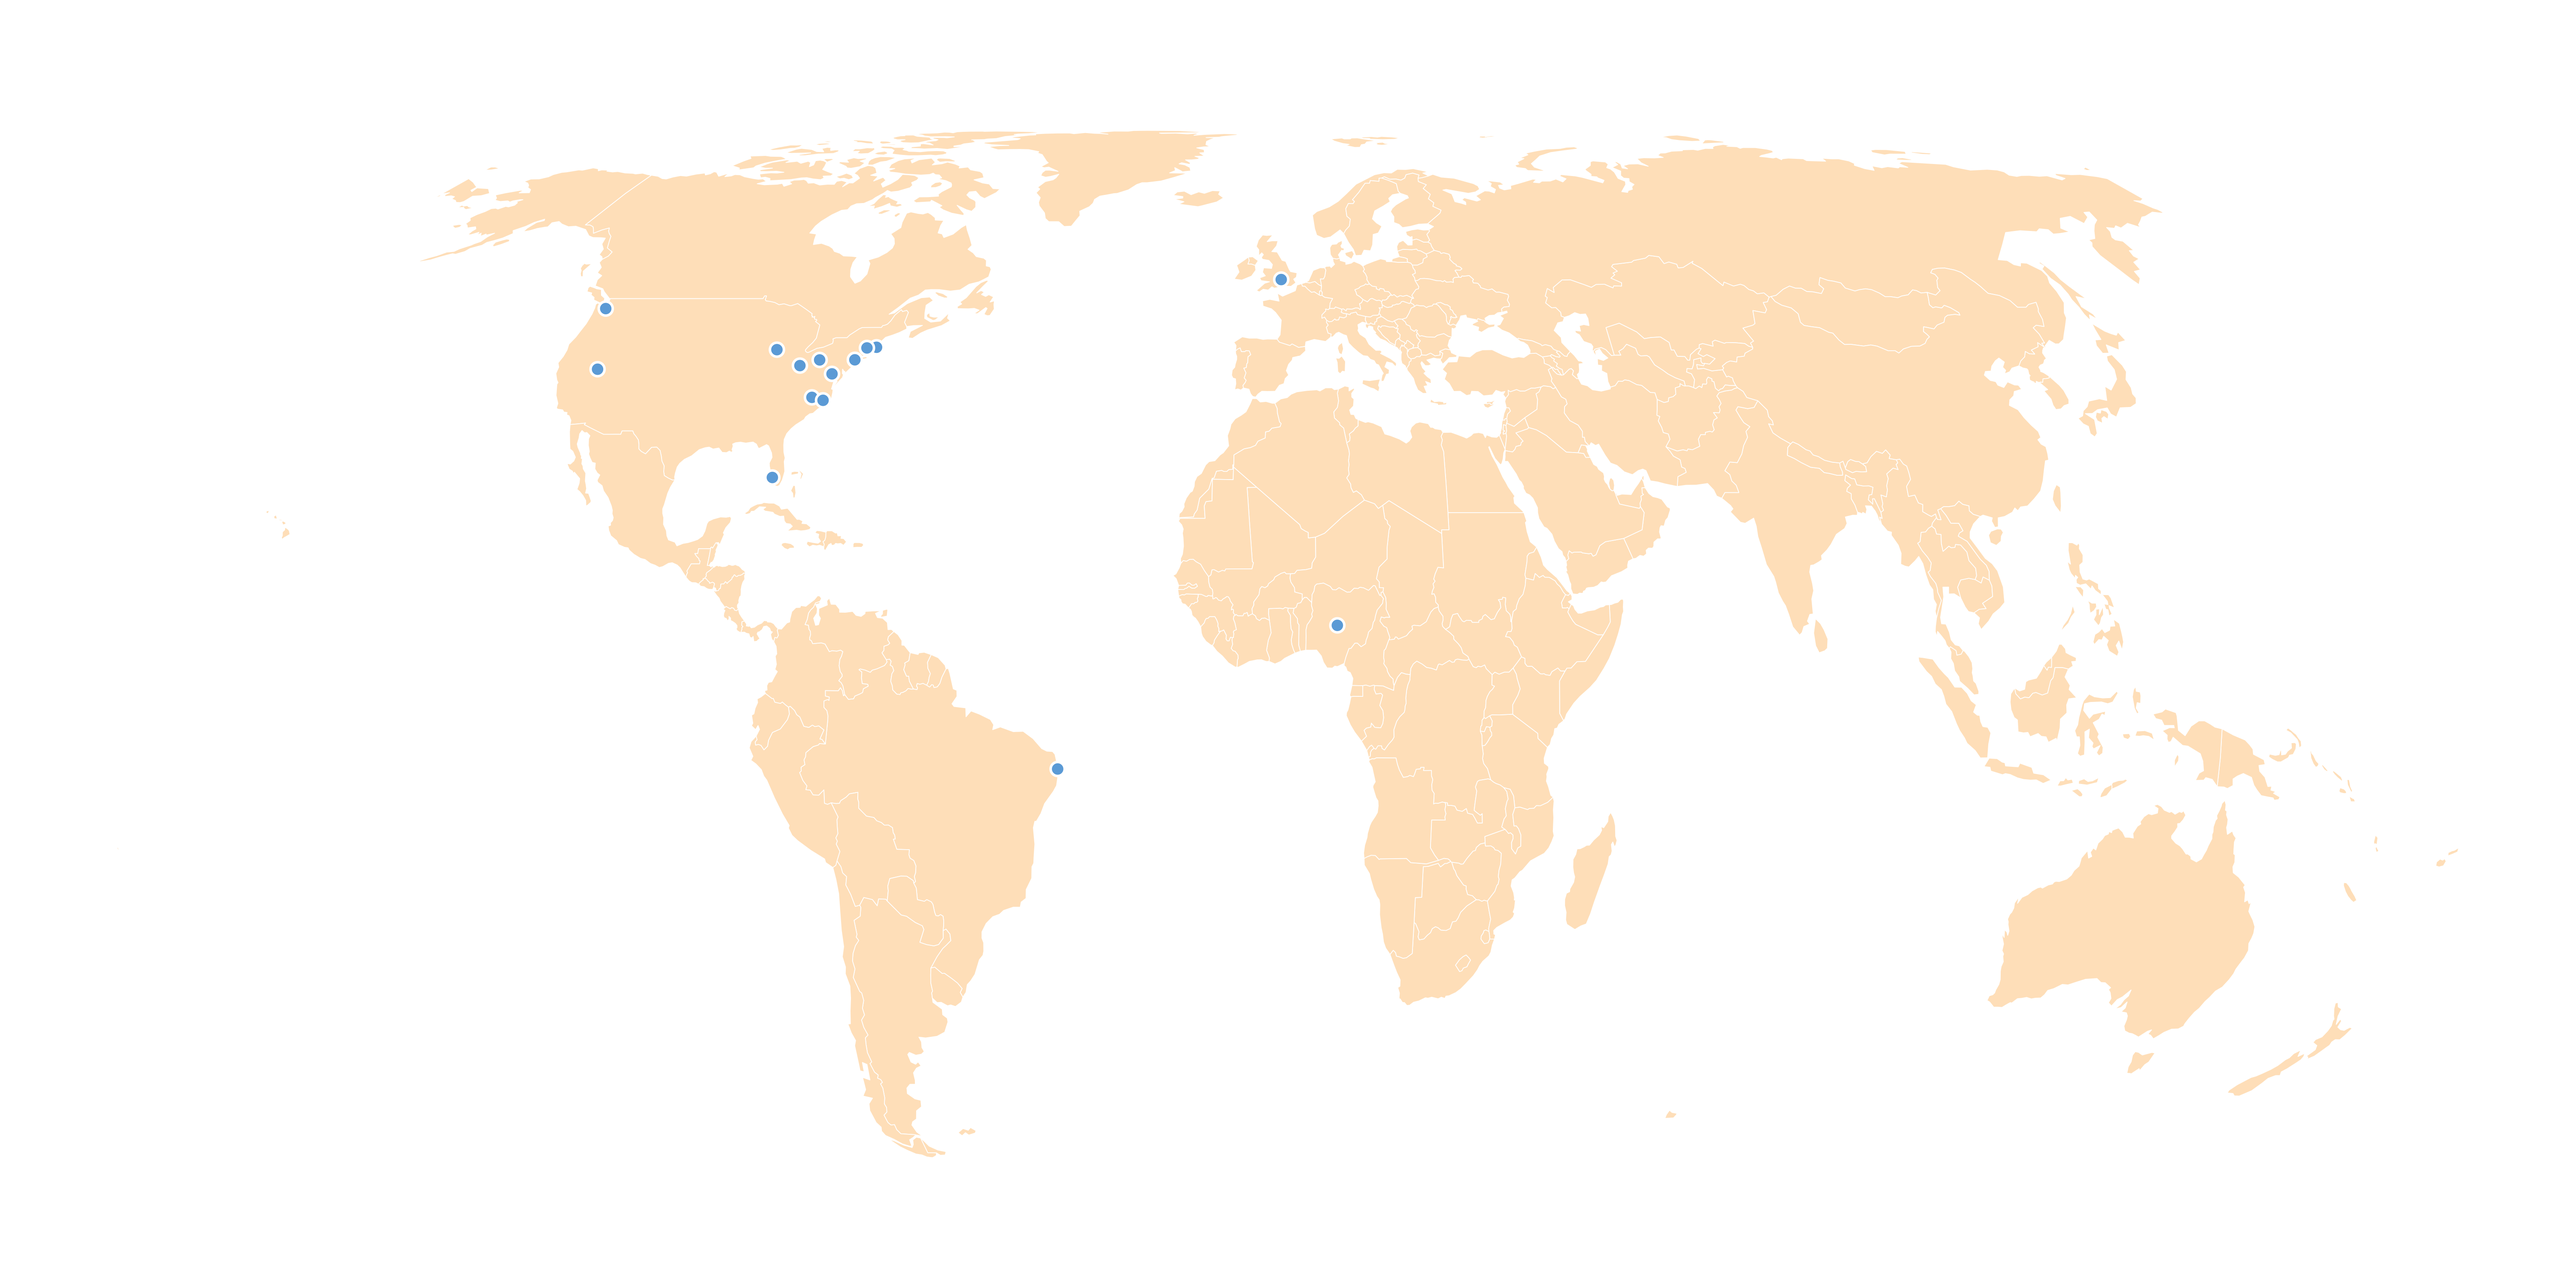
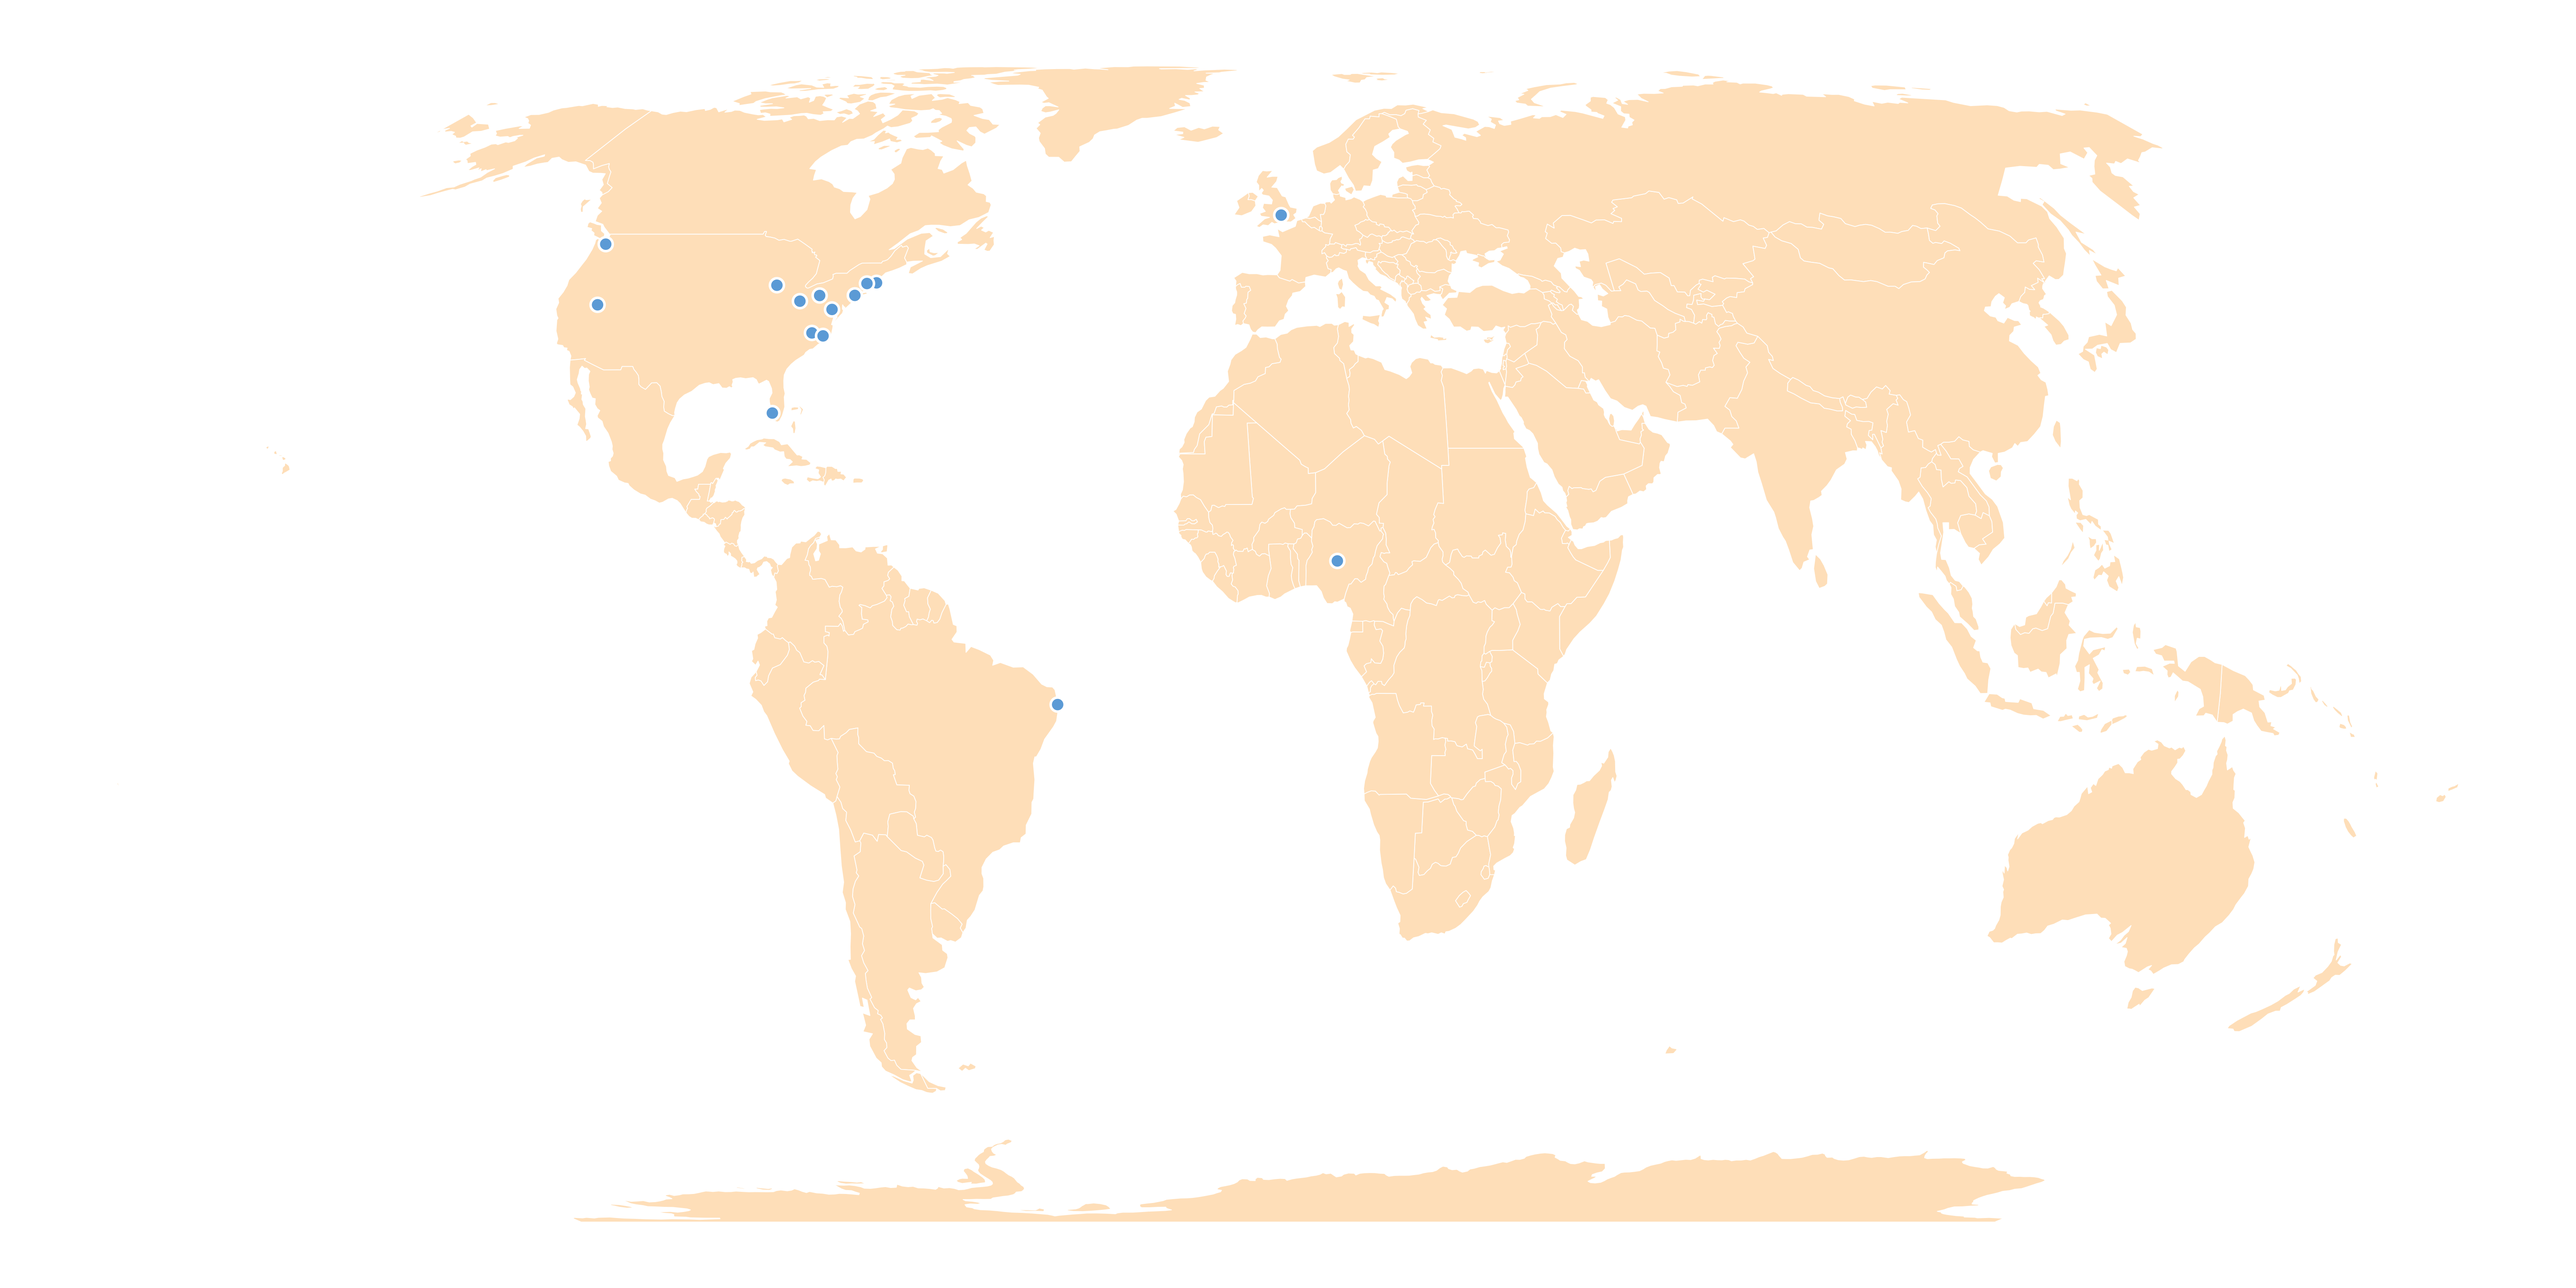
Update week 1 slides

Changed region(s): [[0.1558, 0.031, 0.9038, 0.961], [0.4363, 0.403, 0.6233, 0.775]]

diff --git a/slides/slides-week-01.html b/slides/slides-week-01.html
@@ -434,7 +434,7 @@
 <section id="section" class="title-slide slide level1 center">
 <h1></h1>
 <div class="absolute" style="top: 0px; right: -225px; ">
-<countdown-timer id="timer_e7244a207baecadaf26c538d2c4a43a4133e7827" minutes="01" seconds="00" class="countdown" warn-when="0" update-every="1" play-sound="false" blink-colon="false" start-immediately="false" tabindex="0" style="top: 0;right: 0;">
+<countdown-timer id="timer_bfa3e8ffa188797965f1606c068e948bcaa63998" minutes="01" seconds="00" class="countdown" warn-when="0" update-every="1" play-sound="false" blink-colon="false" start-immediately="false" tabindex="0" style="top: 0;right: 0;">
  </countdown-timer>
 </div>
 <p>Which approach would you use to understand what variables a dataset contains and what type of information each variable holds?</p>
@@ -457,7 +457,7 @@
 </ol>
 </section>
 
-<section id="the-elephant-in-the-room-ai" class="title-slide slide level1 center">
+<section id="the-elephant-in-the-room-ai" class="title-slide slide level1 inverse center">
 <h1>The Elephant in the Room: AI</h1>
 <aside class="notes">
 <p>https://datavizf25.classes.andrewheiss.com/news/2025-11-02_llms-bad-for-learning-code.html</p>
